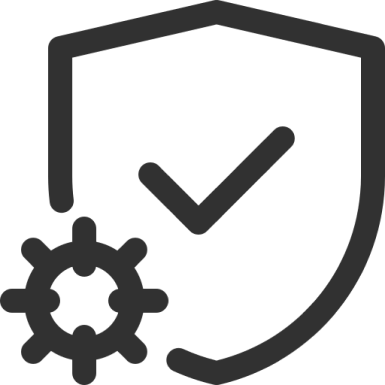
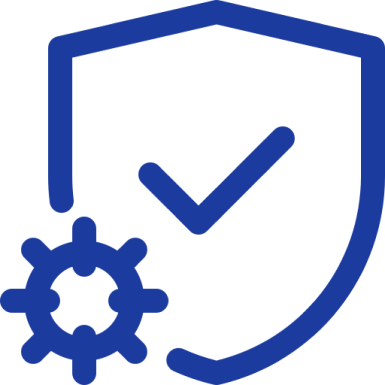
Further updates to homepage - underlines and colours

Changed region(s): [[0.1247, 0.0, 1.0, 1.0], [0.0, 0.561, 0.4364, 1.0], [0.3429, 0.3117, 0.7792, 0.6234]]

diff --git a/index.html b/index.html
@@ -18,7 +18,7 @@
                 <a href="index.html">Home</a>
                 <a href="about.html">About</a>
                 <a href="resources.html">Resources</a>
-                <a href="contact.html">Contact us</a>
+                <a href="contact.html">Contact Us</a>
             </div>
                 <div class="install-button">
                     <button type="button" class="nav-button">Install now</button>
@@ -29,8 +29,8 @@
     <section class="heroSection">
         <div class="hero-container">
             <div class="column-left">
-                <h1>scammers are getting smarter, <br> so are we.</h1>
-                <button>Add to chrome - free</button>
+                <h1 class="light">scammers are getting smarter,<br><h1 class="emph-yel">so are we.</h1></h1>
+                <button class="margin">Add to Chrome - free</button>
             </div>
             <div class="column-right">
                 <img src="images/1Fraud 1.png" alt="demo" class="hero-image">
@@ -40,7 +40,7 @@
 
     <section class="what-is-scamless">
         <div class="section-title">
-            <h1 class="styled-underlined">What is </h1><h1 class="font-weight-bold styled-underlined">'ScamLess'</h1><h1 class="styled-underlined">?</h1>
+            <h1 class="styled-underlined">What is <h1 class="font-weight-bold styled-underlined emph-blue">'ScamLess'</h1><h1 class="styled-underlined">?</h1>
         </div>
         <div class="content-container">
             <div class="column-left">
@@ -48,8 +48,8 @@
             </div>
             <div class="column-right">
                 <div class="grid-container">
-                    <div class="grid-item grid-item-1 left-aligned"><h2>A <h2 class="font-weight-bold">free</h2><h2>, scam prevention tool that actually works.</h2></div>
-                    <div class="grid-item grid-item-2"><p>A free tool that has been tested, designed and trusted to help reduce the scam rate. Accurately picks up suspicious links that could lead to theft of personal data or financial loss.</p></div>
+                    <div class="grid-item grid-item-1 left-aligned"><h2>A <h2 class="font-weight-bold emph-light-blue">free</h2><h2>, scam prevention tool that <h2 class="small-styled-underlined">actually works.</h2></div>
+                    <div class="grid-item grid-item-2"><p>A free tool that has been <b>tested, designed and trusted </b><p>to help reduce the scam rate. Accurately picks up suspicious links that could lead to theft of personal data or financial loss.</p></div>
                 </div>
             </div>
         </div>
@@ -59,7 +59,7 @@
         <div class="content-container">
             <div class="column-left">
                 <div class="grid-container">
-                    <div class="grid-item grid-item-1 right-aligned"><h2 class="light">The <h2 class="font-weight-bold light">easiest, automated </h2><h2 class="light">first line of protection.</h2></div>
+                    <div class="grid-item grid-item-1 right-aligned"><h2 class="light">The <h2 class="font-weight-bold light">easiest, automated </h2><h2 class="light">first <h2 class="small-styled-underlined light">line of protection.</h2></div>
                     <div class="grid-item grid-item-2"><p class="light right-aligned">Background scanning as a browser extension. Advanced algorithms are used to block suspicious links - especially when you are about to enter a new website for the first time.</p></div>
                 </div>
             </div>
@@ -76,8 +76,8 @@
             </div>
             <div class="column-right">
                 <div class="grid-container">
-                    <div class="grid-item grid-item-1"><h2 class="font-weight-bold">Anyone</h2><h2> can be a victim.</h2></div>
-                    <div class="grid-item grid-item-2"><p>Choose safe mode designed for children using the internet or set up a custom profile. All the security settings in one place for easy oversight.</p></div>
+                    <div class="grid-item grid-item-1"><h2 class="font-weight-bold">Anyone</h2><h2> can be a <h2 class="small-styled-underlined">victim.</h2></div>
+                    <div class="grid-item grid-item-2"><p>Choose <b>safe mode</b> for children using the internet or set up a custom profile. All the security settings in one place for easy oversight.</p></div>
                 </div>
             </div>
         </div>
@@ -89,21 +89,24 @@
         </div>
         <div class="hero-container2">
              <div class="container">
-                <div class="box1">
-                    <p class="font-weight-bold">Download and <br> install extension</p>
+                <div class="box1 hover-element">
+                    <p class="font-weight-bold">Download and<br>install extension</p>
                     <img src="images\5bComputer 1.png">
+                    <div class="hover-text">Extension available on Chrome webstore<br><br>Free installation</div>
                 </div>
              </div>
             <div class="container">
-                <div class="box2">
-                     <p class="font-weight-bold">Personalise your <br> settings and <br> preferences</p>
+                <div class="box2 hover-element">
+                     <p class="font-weight-bold">Personalise your<br>settings and<br>preferences</p>
                     <img src="images/5cPersonalise 1.png">
+                    <div class="hover-text">Choose notification preferences<br><br>on safe mode for children</div>
                 </div>
             </div>
             <div class="container">
                 <div class="box3">
                     <p class="font-weight-bold">Enjoy browsing with confidence</p>
                     <img src="images/5aShopping 1.png">
+                    <div class="hover-text">Extension available on Chrome webstore<br><br>Free installation</div>
                 </div>
             </div>
         </div>
@@ -203,5 +206,7 @@
             </nav>
         </div>
     </footer>
-
+    
+    <script src="index.js"></script>
+    
 </body>

diff --git a/style.css b/style.css
@@ -15,6 +15,14 @@
     text-underline-offset: 30px;
 }
 
+.small-styled-underlined {
+    text-decoration: underline;
+    text-decoration-color: #FFCC16;
+    text-decoration-style: solid;
+    text-decoration-thickness: 8px;
+    text-underline-offset: 20px;
+}
+
 .right-aligned {
     text-align: right;
 }
@@ -50,6 +58,18 @@ h3 {
     padding-bottom: 10px;
     padding-top: 10px;
 
+}
+
+.emph-yel {
+    color: #FFCC16;
+}
+
+.emph-blue {
+    color: #03174A;
+}
+
+.emph-light-blue {
+    color: #1B3B9E;
 }
 
 .light {
@@ -98,20 +118,27 @@ nav a {
     color: #313131;
     background-color: #FFCC16;
     border-style: solid;
-    border-width: 1px;
+    border-width: 4px;
     border-color: #FFCC16;
 }
 
 .nav-button:hover {
     color: #313131;
     background-color: white;
-    transition: ease-in-out .2s
+    transition: ease-in-out .2s;
+    border-style: solid;
+    border-width: 4px;
+    border-color: #1B3B9E;
+}
+
+.margin {
+    margin-top: 2rem;
 }
 
 /*HeroSection*/
 
 .heroSection {
-    background-color: #273469;
+    background-color: #03174A;
 }
 
 .hero-container {
@@ -131,9 +158,7 @@ nav a {
 }
 
 .column-left h1 {
-    color: white;
-    margin-bottom: 2rem;;
-    font-weight: 500;
+    font-weight: 650;
     font-size: 6rem;
     line-height: 5.25rem;
 }
@@ -142,16 +167,17 @@ button {
     padding: .75rem 1.25rem;
     font-size: large;
     font-weight: normal;
-    border: none;
-    color: #313131;
-    background: #FFCC16;
+    border: solid white;
+    color: white;
+    background: #1B3B9E;
     cursor: pointer;
     border-radius: 50px;
 }
 
 button:hover {
-   color: #313131;
+    color: #313131;
     background-color: white;
+    border: solid #1B3B9E;
     transition: ease-in-out .2s
 }
 
@@ -165,7 +191,7 @@ button:hover {
 .content-container {
     display: grid;
     grid-template-columns: 1fr 1fr;
-    height: 95vh;
+    height: 75vh;
     padding: 3rem calc((90vw - 1300px) / 2);
 }
 
@@ -214,19 +240,16 @@ button:hover {
 }
 
 .shieldsection-image {
-    width: 75%;
+    width: 100%;
+    scale: .7;
 }
+
 
 .section-title {
     display: flex;
     justify-content: center;
     align-items: center;
     padding-top: 100px;
-}
-
-.grid-container {
-    display: grid;
-    grid-template-rows: 2fr 1fr;
 }
 
 /*Easiest-Section*/
@@ -268,6 +291,18 @@ width: 750px;
     width: 80%;
     margin: 0 auto;
     position: relative;
+  }
+
+.hover-element {
+    position: relative;
+  }
+  
+.hover-text {
+    display: none;
+    position: absolute;
+    color: #313131;
+    padding: 5px;
+    top: 120%;
   }
 
   .box1 {
@@ -396,10 +431,13 @@ footer div {
 
 .footer-button {
     background-color: white;
+    color: #313131;
+    border: none;
 }
 
 .footer-button:hover {
     background-color: #FFCC16;
+    border: none;
 }
 
 ul li{

diff --git a/index.js b/index.js
@@ -1,0 +1,11 @@
+
+  const hoverElement = document.querySelector(".hover-element");
+  const hoverText = document.querySelector(".hover-text");
+  
+  hoverElement.addEventListener("mouseenter", function() {
+    hoverText.style.display = "block";
+  });
+  
+  hoverElement.addEventListener("mouseleave", function() {
+    hoverText.style.display = "block";
+  });
